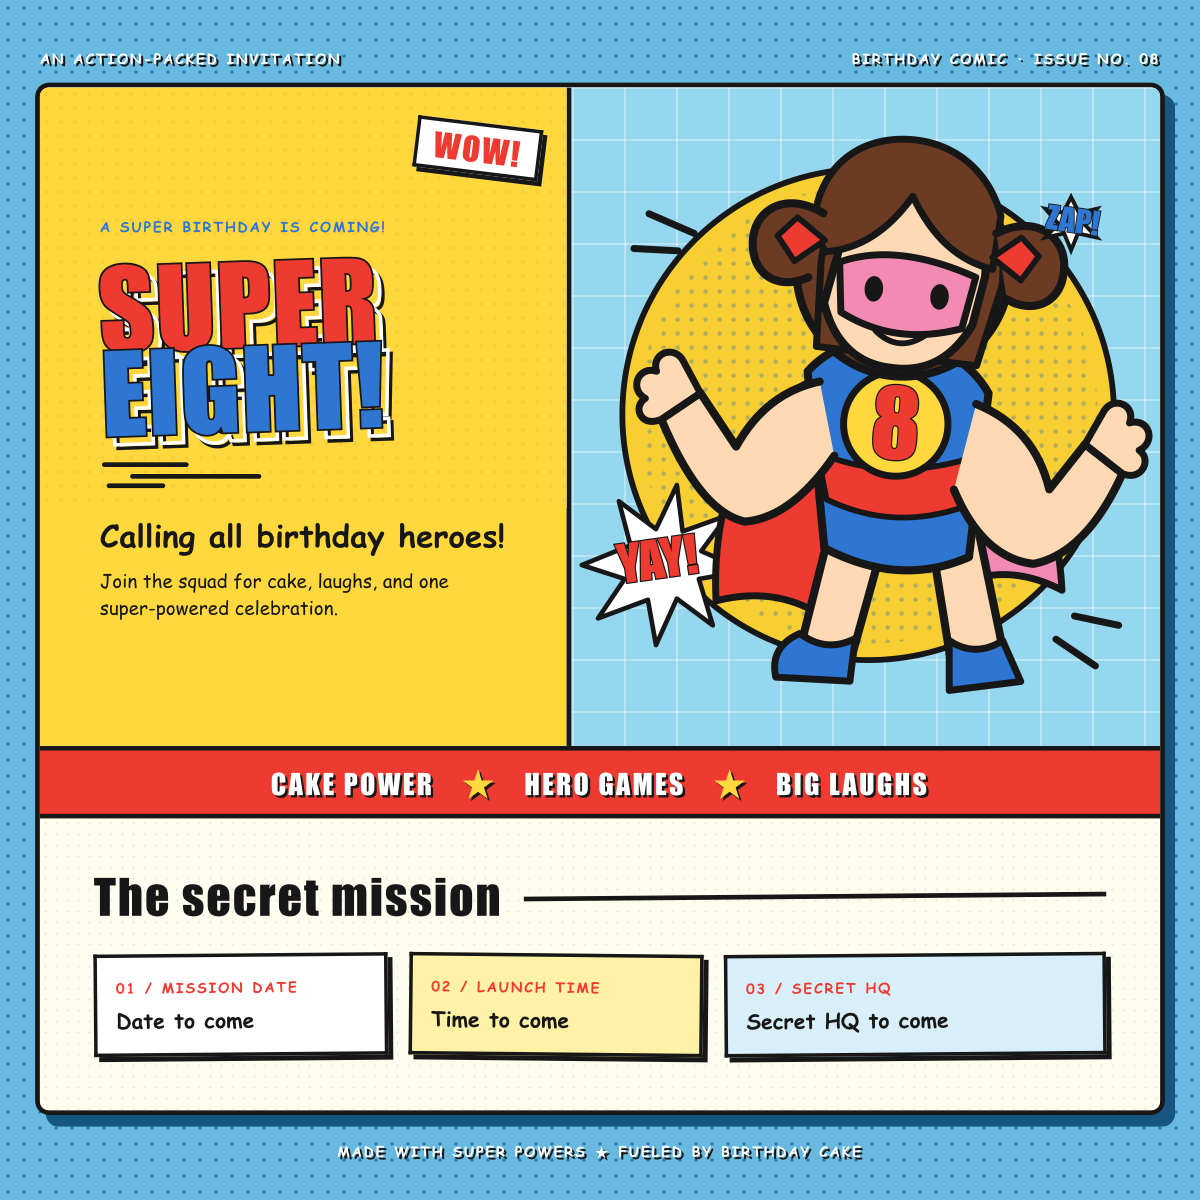
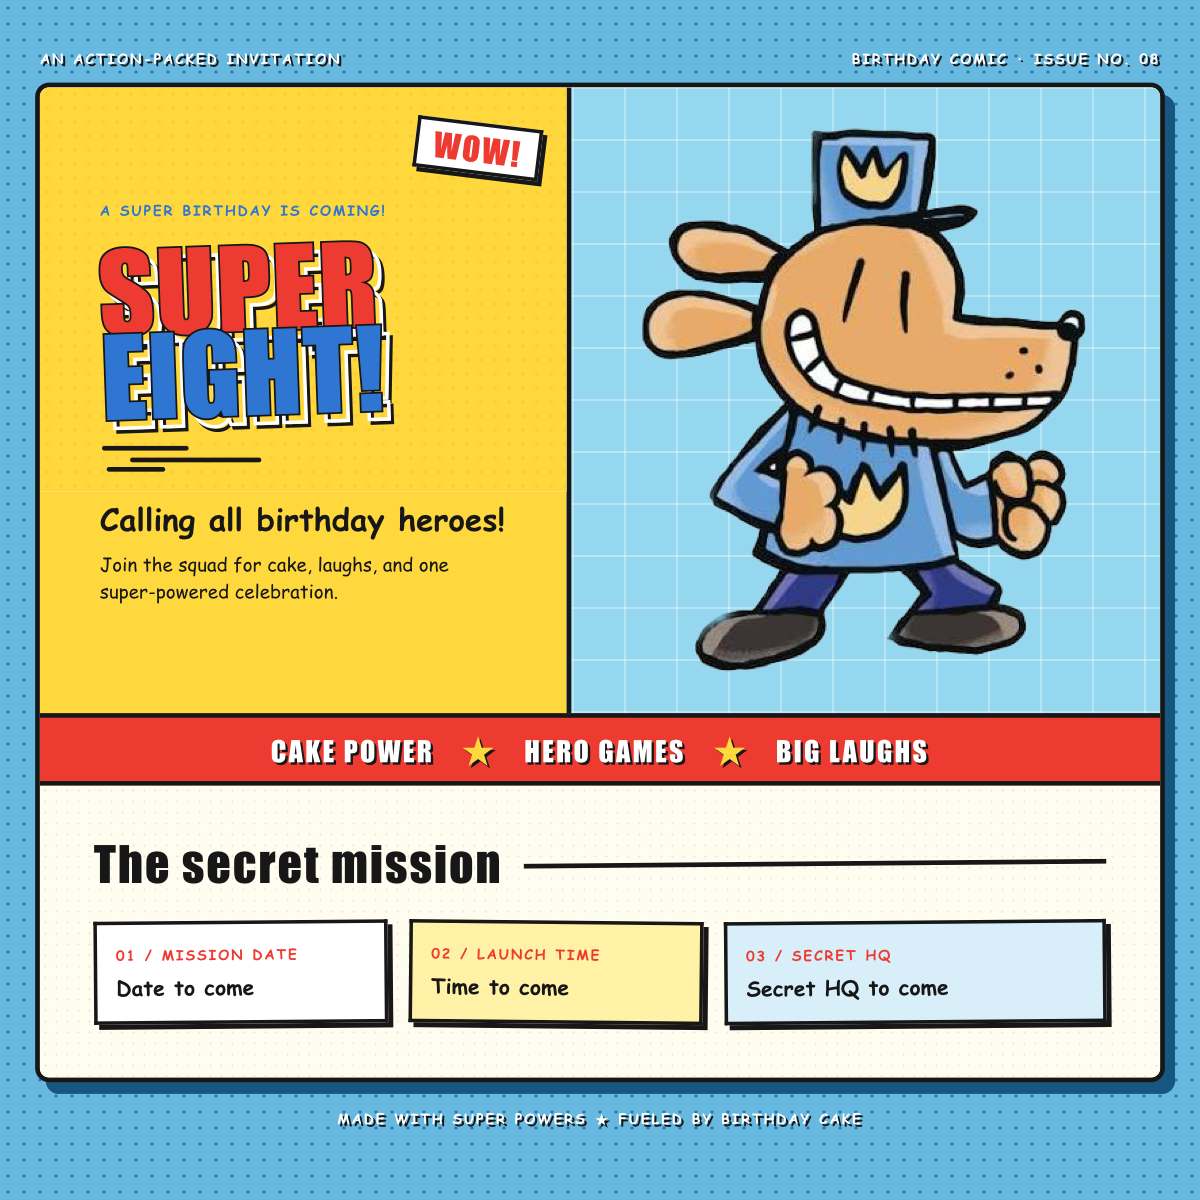
Tue Nov  3 12:29:21 PST 2026

diff --git a/cards/bday-8-girl-comic/index.html b/cards/bday-8-girl-comic/index.html
@@ -177,6 +177,8 @@
       display: grid;
       place-items: center;
       min-width: 0;
+      overflow: hidden;
+      padding: clamp(18px, 3vw, 34px);
       border-left: 4px solid var(--ink);
       background-color: var(--sky);
       background-image: linear-gradient(#ffffff55 2px, transparent 2px), linear-gradient(90deg, #ffffff55 2px, transparent 2px);
@@ -185,10 +187,11 @@
 
     .birthday-art {
       display: block;
-      width: 100%;
+      width: min(88%, 400px);
       height: auto;
-      max-height: 590px;
-      padding: 4px;
+      max-width: 100%;
+      max-height: 540px;
+      object-fit: contain;
     }
 
     .party-strip {
@@ -533,6 +536,8 @@
       .art-panel {
         grid-column: 1;
         grid-row: 3;
+        min-height: 390px;
+        padding: 20px;
         border-top: 4px solid var(--ink);
         border-left: 0;
       }
@@ -546,7 +551,8 @@
       }
 
       .birthday-art {
-        max-height: 430px;
+        width: min(82vw, 330px);
+        max-height: 390px;
       }
 
       .party-strip {
@@ -680,6 +686,8 @@
     html.oi-print .art-panel {
       grid-column: 2;
       grid-row: 1;
+      min-height: 0;
+      padding: 10px;
       border-top: 0;
       border-left: 4px solid var(--ink);
     }
@@ -692,9 +700,10 @@
     }
 
     html.oi-print .birthday-art {
-      width: 100%;
-      max-height: 285px;
-      padding: 2px;
+      width: min(100%, 180px);
+      height: auto;
+      max-height: 250px;
+      object-fit: contain;
     }
 
     html.oi-print .party-strip {
@@ -808,7 +817,7 @@
           <div id="notes"></div>
         </div>
         <div class="art-panel">
-          <img src="https://cards.openinvite.vip/cards/bday-8-girl-comic/dog.png" />
+          <img class="birthday-art" src="dog.png" alt="Birthday superhero" />
         </div>
       </header>
       <div class="party-strip"><span>Cake power</span><span class="burst" aria-hidden="true">★</span><span>Hero
